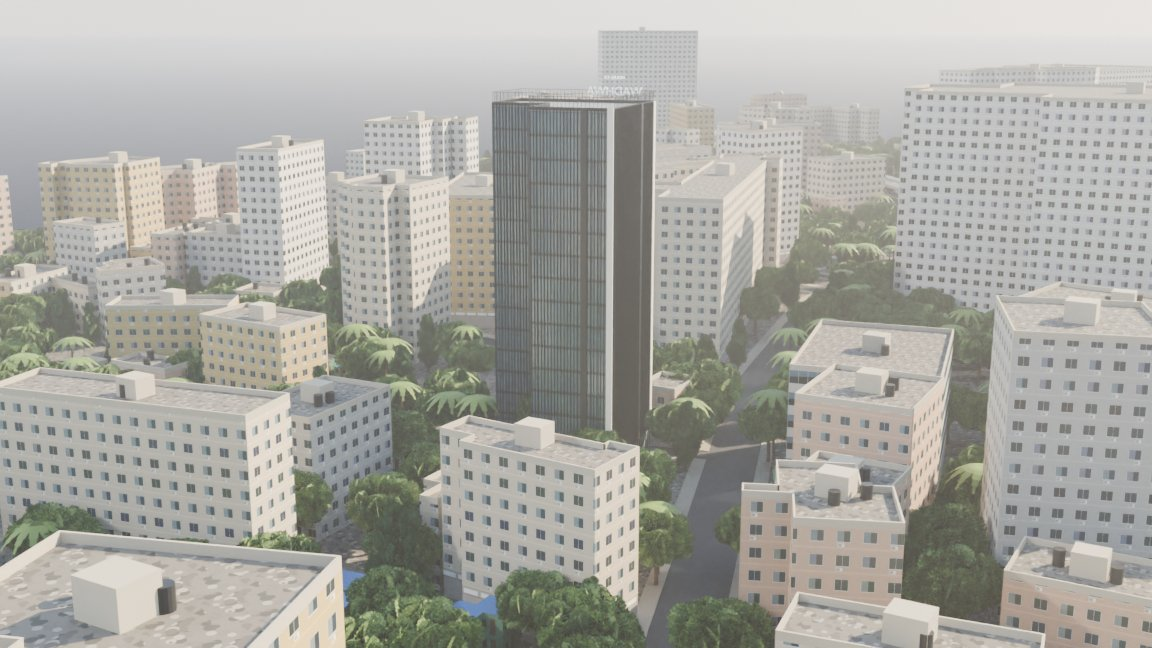
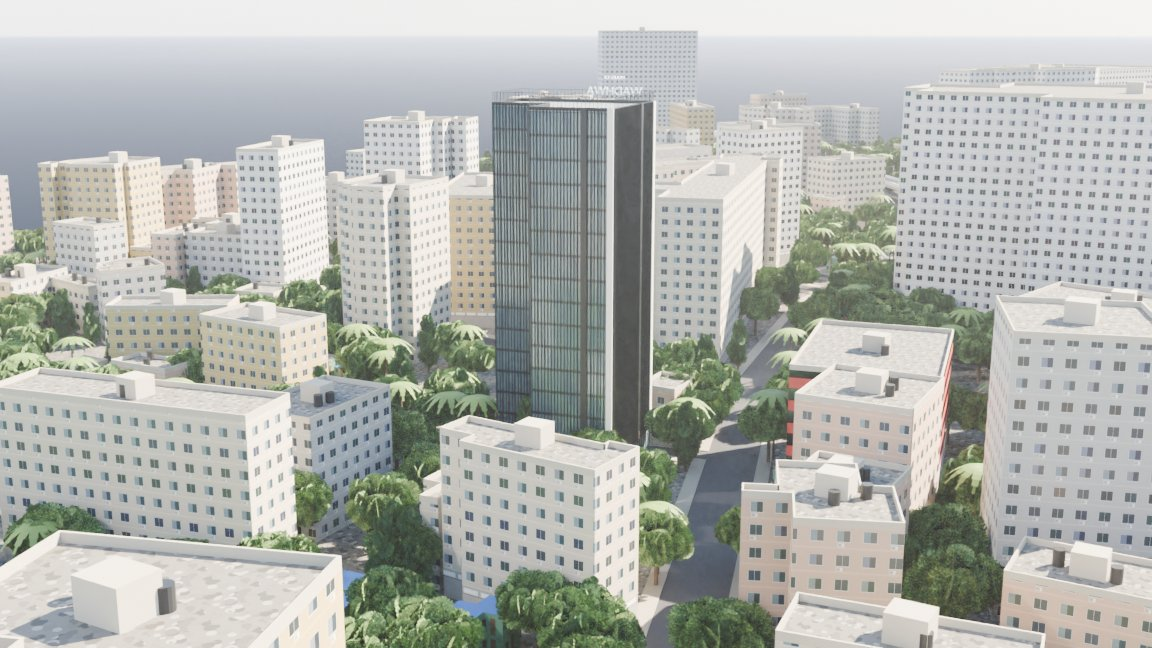
feat(andheri): clear daylight, Times Square landmark, road and overview shots

diff --git a/scripts/world/diorama.py b/scripts/world/diorama.py
@@ -440,6 +440,14 @@ def build():
 
     # --- the buildings around it ---
     ctx = MB([]); props = MB([])
+    # named landmarks near the options (footprint nearest the point; height from the surface model)
+    # Times Square: the 8,600 m2 complex north of Andheri-Kurla Road, 90 m from the geocoded Le Western hotel
+    LMK = [("Times Square", 72.867 + 1751 / S["k"][0], 19.111 - 319 / S["k"][1], "cw_blue"), ("Le Western", 72.8828176, 19.1078771, "cw_silver")]
+    lmk = {}
+    for nm, lo_, la_, sty in LMK:
+        pt = Point((lo_ - S["origin"][0]) * S["k"][0], (la_ - S["origin"][1]) * S["k"][1])
+        cand = [(p_.centroid.distance(pt), id(b_)) for b_, p_ in bpolys if p_.area > 1200 and b_.get("opt") != OID and id(b_) not in lmk]
+        if cand: lmk[min(cand)[1]] = (nm, sty)
     road_near = unary_union([ROAD["major"], ROAD["minor"]]).buffer(6)
     for b, p in bpolys:
         if b.get("opt") == OID: continue
@@ -447,9 +455,11 @@ def build():
             if q.geom_type != "Polygon" or q.area < 8: continue
             q = q.simplify(0.15); hgt = b["h"]; a = q.area; r_ = random.Random(b["r"])
             ring = [L(x, y) for x, y in q.exterior.coords]
-            if a < 70: style = "chawl"
+            OFFICE = ["cw_teal", "cw_blue", "cw_grey", "cw_silver", "ribbon_red", "ribbon_white", "com_ribbon"]
+            if id(b) in lmk: style = lmk[id(b)][1]; print("landmark", lmk[id(b)][0], round(a), "m2", hgt, "m")
+            elif a < 70: style = "chawl"
             elif hgt > 45: style = "res_tower" if r_.random() < 0.6 else "com_glass"
-            elif b["c"] in ("commercial", "office", "retail") or (a > 1500 and r_.random() < 0.5): style = "com_ribbon"
+            elif b["c"] in ("commercial", "office", "retail", "hotel") or (a > 1500 and r_.random() < 0.5): style = OFFICE[int(b["r"] * 991) % len(OFFICE)]
             else: style = WALL_STYLES[int(b["r"] * 997) % len(WALL_STYLES)]
             mw, mh = MOD[style]
             shop = a > 80 and hgt > 7 and road_near.intersects(q) and style != "chawl"
@@ -946,10 +956,15 @@ def aerial(data, info, name="aerial", az_off=-0.6, dist_k=1.0, el_k=0.42, lens=3
     perspective from a thin world volume, no tilt-shift and no transparent film."""
     sc = bpy.context.scene
     if not getattr(aerial, "lit", False):
-        place_instances(data); light(sc, az=235, el=32); aerial.lit = True
+        place_instances(data); light(sc, az=235, el=38); aerial.lit = True
+        sky = next(n for n in sc.world.node_tree.nodes if n.bl_idname == "ShaderNodeTexSky")
+        for k_, v_ in (("air_density", 1.0), ("aerosol_density", 1.2), ("sun_intensity", 1.0)):
+            try: setattr(sky, k_, v_)
+            except Exception: pass
+        sc.world.node_tree.nodes["Background"].inputs[1].default_value = 0.45; bpy.data.lights["sun"].energy = 4.2
         # haze in a bounded box (a world volume would swallow the sky and the sun at infinity)
         hm = bpy.data.materials.new("haze"); hm.use_nodes = True; ht = hm.node_tree; ht.nodes.remove(ht.nodes["Principled BSDF"])
-        vol = ht.nodes.new("ShaderNodeVolumePrincipled"); vol.inputs["Density"].default_value = 0.00028
+        vol = ht.nodes.new("ShaderNodeVolumePrincipled"); vol.inputs["Density"].default_value = 0.00006
         vol.inputs["Color"].default_value = (0.86, 0.87, 0.9, 1); vol.inputs["Anisotropy"].default_value = 0.35
         ht.links.new(vol.outputs[0], ht.nodes["Material Output"].inputs["Volume"])
         bpy.ops.mesh.primitive_cube_add(size=1, location=(0, 0, 140)); hz = bpy.context.active_object; hz.name = "haze"
@@ -961,8 +976,12 @@ def aerial(data, info, name="aerial", az_off=-0.6, dist_k=1.0, el_k=0.42, lens=3
         except Exception as e: print("GPU unavailable", e)
     E = info["entrance"]; F = info["canopy_ang"]; nx, ny = math.sin(F), -math.cos(F); H = info["H"]
     bc = Polygon(data["building"]["foot"]).centroid
-    a = math.atan2(ny, nx) + az_off; dist = max(420, H * 6) * dist_k
-    camera(sc, (bc.x + math.cos(a) * dist, bc.y + math.sin(a) * dist, dist * el_k), (bc.x - math.cos(a) * 60, bc.y - math.sin(a) * 60, H * 0.2), lens)
+    if isinstance(az_off, tuple):   # explicit shot in the scene frame: (pos, look, lens)
+        (px_, py_, pz_), (lx_, ly_, lz_) = az_off[0], az_off[1]
+        camera(sc, (px_ - OX, py_ - OY, pz_), (lx_ - OX, ly_ - OY, lz_), az_off[2]); a = None
+    else:
+        a = math.atan2(ny, nx) + az_off; dist = max(420, H * 6) * dist_k
+        camera(sc, (bc.x + math.cos(a) * dist, bc.y + math.sin(a) * dist, dist * el_k), (bc.x - math.cos(a) * 60, bc.y - math.sin(a) * 60, H * 0.2), lens)
     sc.render.engine = "CYCLES"; sc.cycles.samples = int(A[A.index("--samples") + 1]) if "--samples" in A else 96; sc.cycles.use_denoising = True
     sc.cycles.max_bounces = 6; sc.cycles.transparent_max_bounces = 8; sc.cycles.volume_step_rate = 4
     sc.render.resolution_x, sc.render.resolution_y = 1920, 1080; sc.render.resolution_percentage = int(A[A.index("--pct") + 1]) if "--pct" in A else 100
@@ -980,5 +999,8 @@ if "--render" in A:
         if k.startswith("--"): break
         if k == "aerial": aerial(data, info)
         elif k == "aerial2": aerial(data, info, "aerial2", az_off=0.9, dist_k=0.55, el_k=0.35, lens=40)
+        # scene-frame shots for 723 Avenue: along Andheri-Kurla Road past Times Square, and the 500 m overview
+        elif k == "road": aerial(data, info, "road", az_off=((1440, -378, 24), (1760, -325, 30), 26))
+        elif k == "overview": aerial(data, info, "overview", az_off=((1690, -1000, 390), (1765, -265, 12), 30))
         else: render(k, data, info)
 if "--sky" in A: sky_hdr()

diff --git a/docs/JOURNAL.md b/docs/JOURNAL.md
@@ -13,7 +13,15 @@
   - The generated 723 tower is replaced by the earlier photo-matched facade study (dark fins, opaque divisions, WADHWA crown). It lands on the same footprint within 4 cm.
   - New photographic aerial stills (GPU, real haze, no tilt-shift), so the scene reads as a drone photograph, not a model on a table.
   - All new behaviour is behind options (`--slab-min`, `--hero-blend`, `--render aerial aerial2`), so the live explorer's existing outputs are unchanged.
-- **What works now:** one command rebuilds a 1.1 km square of Marol around 723 Avenue and renders two drone views in about 30 seconds. The stills are in `media/flipkart-andheri/world/checkpoint/`.
+- **What works now:**
+  - One command rebuilds a 1.1 km square of Marol around 723 Avenue (about 500 m in every direction) and renders three views in about 30 seconds:
+    - an overview from across Andheri-Kurla Road;
+    - a view along the road under the Line 1 viaduct;
+    - a close view of 723.
+  - The stills are in `media/flipkart-andheri/world/checkpoint/`.
+  - After the founder's review, the milky haze was removed for clear daylight.
+  - Times Square (the 8,600 m² complex north of the road) and the Le Western hotel are named landmarks in glass curtain wall.
+  - Office blocks across the area now use six glass and ribbon-window facades instead of one.
 - **Left undone:**
   - The neighbouring buildings still look too clean and uniform. Every facade has the same punched windows, and the satellite heights flatten most of them to 5–8 storeys.
   - Corporate Avenue (2.5 km west) and Privilon are not yet in a checkpoint still.
